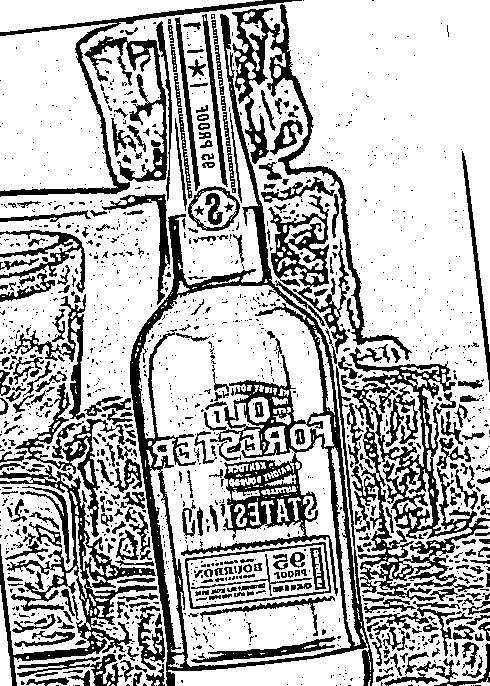
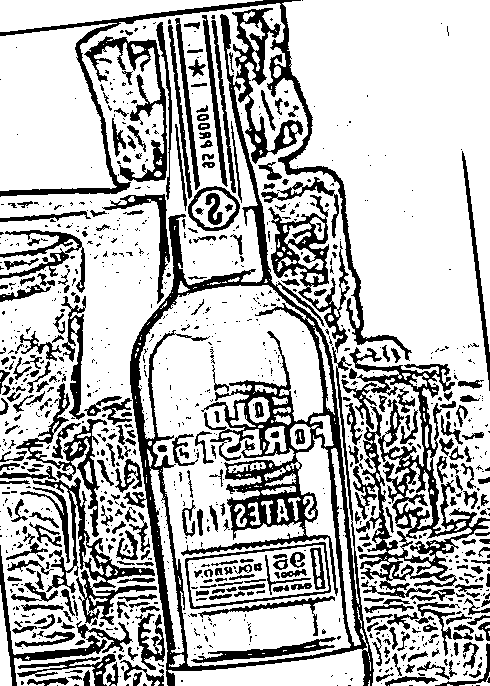
added denoise and deskew

diff --git a/src/ocr/preprocess.py b/src/ocr/preprocess.py
@@ -1,6 +1,8 @@
 import cv2
+import math
 import numpy as np
-import os
+from deskew import determine_skew
+from typing import Tuple, Union
 
 test_image = 'data/augmented_images/429_3.png'
 
@@ -30,13 +32,59 @@ def threshold(image: np.ndarray, block_size: int = 11, C: int = 2) -> np.ndarray
     binary_image = cv2.adaptiveThreshold(image, 255, cv2.ADAPTIVE_THRESH_GAUSSIAN_C, cv2.THRESH_BINARY, block_size, C)
     return binary_image
 
+def denoise(image: np.ndarray, kernel_size: int = 3) -> np.ndarray:
+    """
+    Apply Gaussian blur to reduce noise in the image.
+
+    Args:
+        image (np.ndarray): The input image.
+        kernel_size (int): Size of the Gaussian kernel. Default is 3. Must be odd and greater than 1.
+    Returns:
+        np.ndarray: The denoised image.
+    """
+    if kernel_size % 2 == 0:
+        kernel_size += 1
+    if kernel_size <= 1:
+        kernel_size = 3
+    return cv2.medianBlur(image, kernel_size)
+
+def deskew(image: np.ndarray) -> np.ndarray:
+    """
+    Deskew the image to correct for any tilt.
+
+    Args:
+        image (np.ndarray): The input image.
+    Returns:
+        np.ndarray: The deskewed image.
+    """
+    angle = determine_skew(image)
+    return rotate(image, angle)
+
+def rotate(
+        image: np.ndarray, angle: float, background: Union[int, Tuple[int, int, int]] = (255, 255, 255)
+) -> np.ndarray:
+    old_width, old_height = image.shape[:2]
+    angle_radian = math.radians(angle)
+    width = abs(np.sin(angle_radian) * old_height) + abs(np.cos(angle_radian) * old_width)
+    height = abs(np.sin(angle_radian) * old_width) + abs(np.cos(angle_radian) * old_height)
+
+    image_center = tuple(np.array(image.shape[1::-1]) / 2)
+    rot_mat = cv2.getRotationMatrix2D(image_center, angle, 1.0)
+    rot_mat[1, 2] += (width - old_width) / 2
+    rot_mat[0, 2] += (height - old_height) / 2
+    return cv2.warpAffine(image, rot_mat, (int(round(height)), int(round(width))), borderValue=background)
+
 if __name__ == "__main__":
     # Example usage
     image = cv2.imread(test_image)
     if image is not None:
         gray_image = greyscale(image)
         cv2.imwrite('gray_image.png', gray_image)
-        threshold_image = threshold(gray_image)
+        denoised_image = denoise(gray_image)
+        cv2.imwrite('denoised_image.png', denoised_image)
+        threshold_image = threshold(denoised_image)
         cv2.imwrite('threshold_image.png', threshold_image)
+        deskewed_image = deskew(threshold_image)
+        cv2.imwrite('deskewed_image.png', deskewed_image)
     else:
         print(f"Error: Image not found at {test_image}")
